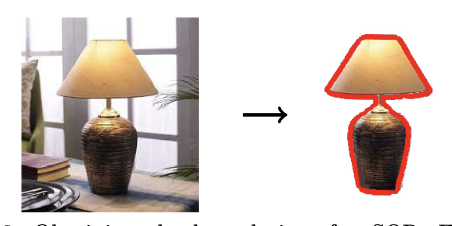
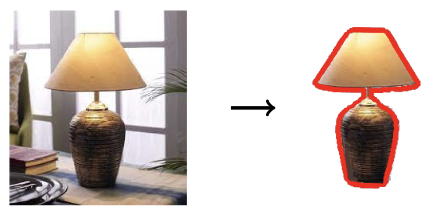
border image updated

diff --git a/README.md b/README.md
@@ -59,7 +59,7 @@ Leveraging the detected outlines and utilizing an optimization approach, the alg
 The calculated 3D axis is then employed to generate the complete 3D model of the object.
 
 <p align="center">
-    <img src="Figures/input_border.png" alt="Logo" width="360" height="220">
+    <img src="Figures/input_border.png" alt="Logo" width="360" height="200">
 </p>
 
 
